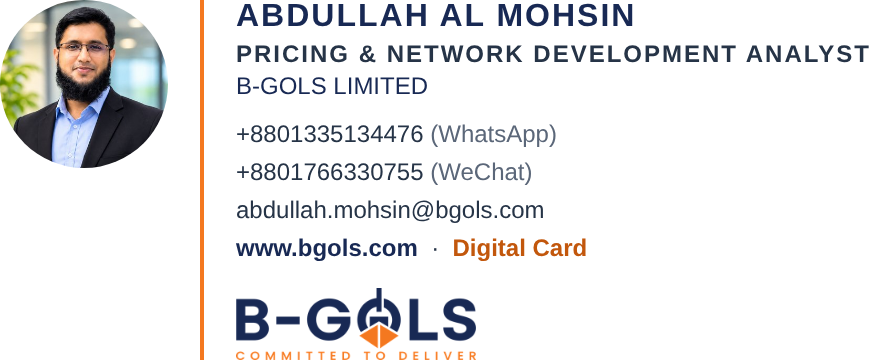
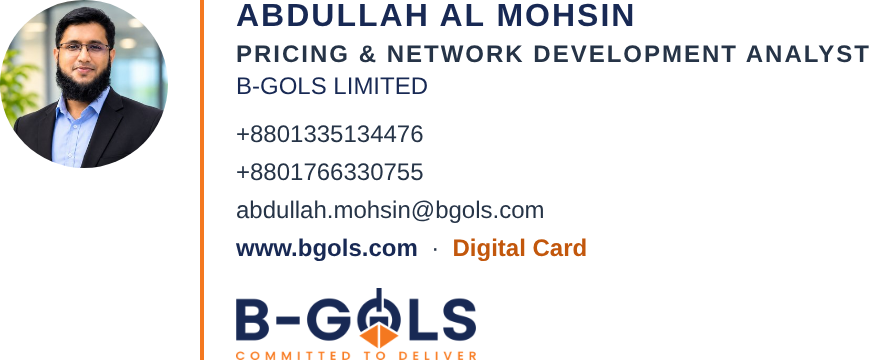
Phone labels: Cell 1 / Cell 2, no WhatsApp/WeChat after numbers
Claude-Session: https://claude.ai/code/session_01TprP1ieCAEd2tQhQxghHUL

Changed region(s): [[0.4954, 0.3361, 0.6502, 0.3972], [0.4954, 0.4583, 0.6193, 0.5194]]

diff --git a/index.html b/index.html
@@ -149,8 +149,8 @@
       <section class="panel" aria-labelledby="h-contact">
         <h2 id="h-contact" class="panel-title">Contact</h2>
         <ul class="list">
-          <li><a class="row" href="tel:+8801335134476"><span class="r-ico"><svg><use href="#i-phone"/></svg></span><span class="r-text"><b>Call Mobile 1</b><small>+8801335134476 · WhatsApp</small></span><svg class="r-go"><use href="#i-chevron"/></svg></a></li>
-          <li><a class="row" href="tel:+8801766330755"><span class="r-ico"><svg><use href="#i-phone"/></svg></span><span class="r-text"><b>Call Mobile 2</b><small>+8801766330755 · WeChat</small></span><svg class="r-go"><use href="#i-chevron"/></svg></a></li>
+          <li><a class="row" href="tel:+8801335134476"><span class="r-ico"><svg><use href="#i-phone"/></svg></span><span class="r-text"><b>Cell 1</b><small>+8801335134476</small></span><svg class="r-go"><use href="#i-chevron"/></svg></a></li>
+          <li><a class="row" href="tel:+8801766330755"><span class="r-ico"><svg><use href="#i-phone"/></svg></span><span class="r-text"><b>Cell 2</b><small>+8801766330755</small></span><svg class="r-go"><use href="#i-chevron"/></svg></a></li>
           <li><a class="row" href="https://wa.me/8801335134476" target="_blank" rel="noopener"><span class="r-ico"><svg><use href="#i-whatsapp"/></svg></span><span class="r-text"><b>WhatsApp</b><small>+8801335134476</small></span><svg class="r-go"><use href="#i-external"/></svg></a></li>
           <li><button class="row" type="button" data-open-wechat><span class="r-ico"><svg><use href="#i-wechat"/></svg></span><span class="r-text"><b>WeChat</b><small>+8801766330755</small></span><svg class="r-go"><use href="#i-chevron"/></svg></button></li>
           <li><a class="row" href="mailto:abdullah.mohsin@bgols.com"><span class="r-ico"><svg><use href="#i-mail"/></svg></span><span class="r-text"><b>Email</b><small>abdullah.mohsin@bgols.com</small></span><svg class="r-go"><use href="#i-chevron"/></svg></a></li>

diff --git a/email-signature.html b/email-signature.html
@@ -35,8 +35,8 @@
             <div style="font-size:12px;font-weight:bold;letter-spacing:1px;color:#263447;padding-top:2px;">PRICING &amp; NETWORK DEVELOPMENT ANALYST</div>
             <div style="font-size:12px;color:#182954;padding-top:2px;">B-GOLS LIMITED</div>
             <div style="font-size:12px;line-height:19px;padding-top:8px;">
-              <a href="tel:+8801335134476" style="color:#263447;text-decoration:none;">+8801335134476</a> <span style="color:#5B6779;">(WhatsApp)</span><br>
-              <a href="tel:+8801766330755" style="color:#263447;text-decoration:none;">+8801766330755</a> <span style="color:#5B6779;">(WeChat)</span><br>
+              <a href="tel:+8801335134476" style="color:#263447;text-decoration:none;">+8801335134476</a><br>
+              <a href="tel:+8801766330755" style="color:#263447;text-decoration:none;">+8801766330755</a><br>
               <a href="mailto:abdullah.mohsin@bgols.com" style="color:#263447;text-decoration:none;">abdullah.mohsin@bgols.com</a><br>
               <a href="https://www.bgols.com/" style="color:#182954;text-decoration:none;font-weight:bold;">www.bgols.com</a>
               &nbsp;·&nbsp; <a id="cardLink" href="./" style="color:#C2570C;text-decoration:none;font-weight:bold;">Digital Card</a>

diff --git a/card.html b/card.html
@@ -96,8 +96,8 @@
           <p class="f-title">Pricing &amp; Network Development Analyst</p>
           <p class="f-co">B-GOLS LIMITED</p>
           <div class="f-lines">
-            <a href="tel:+8801335134476"><svg><use href="#i-phone"/></svg>+8801335134476 <small style="font:inherit;color:var(--muted)">(WhatsApp)</small></a>
-            <a href="tel:+8801766330755"><svg><use href="#i-phone"/></svg>+8801766330755 <small style="font:inherit;color:var(--muted)">(WeChat)</small></a>
+            <a href="tel:+8801335134476"><svg><use href="#i-phone"/></svg>+8801335134476</a>
+            <a href="tel:+8801766330755"><svg><use href="#i-phone"/></svg>+8801766330755</a>
             <a href="mailto:abdullah.mohsin@bgols.com"><svg><use href="#i-mail"/></svg>abdullah.mohsin@bgols.com</a>
             <a href="https://www.bgols.com/" target="_blank" rel="noopener"><svg><use href="#i-globe"/></svg>www.bgols.com</a>
             <p><svg><use href="#i-pin"/></svg><span>B&amp;T Nehaleeya Tower, Level-7, Holding No. 80B, Kemal Ataturk Avenue, P.S. Banani, Dhaka-1213, Bangladesh.</span></p>

diff --git a/sw.js b/sw.js
@@ -3,7 +3,7 @@
 // Cache names carry this card's own prefix: two cards share the bgols-limited.github.io origin,
 // so each card must only ever delete its own old caches.
 const PREFIX = "mohsin-card-";
-const VERSION = PREFIX + "v9";
+const VERSION = PREFIX + "v10";
 const CORE = [
   "./", "index.html", "card.html", "nfc-setup.html", "email-signature.html", "css/styles.css", "js/config.js", "js/app.js", "contact.vcf",
   "manifest.webmanifest",
